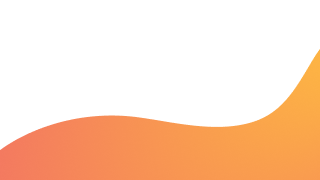
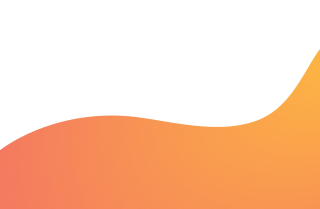
fixed styles and add testing modal

Changed region(s): [[0.0, 0.25, 1.0, 0.8333]]

diff --git a/src/components/MainForm/FormRegistration/FormRegistration.styled.js b/src/components/MainForm/FormRegistration/FormRegistration.styled.js
@@ -1,5 +1,6 @@
 import styled from 'styled-components';
 import backgroundImageMobile from './background-mobile.png';
+import backgroundImageMobileStep from './background-mobile-2.png';
 import backgroundImageTablet from './background-tablet.png';
 import backgroundImageDesktop from './background-desktop.png';
 import { Field, Form, ErrorMessage } from 'formik';
@@ -8,19 +9,31 @@ import { Link } from 'react-router-dom';
 export const StyleSectionFormRegistration = styled.section`
   @media screen and (min-width: 320px) {
     width: 100vw;
-    min-height: 100vh;
-    padding-top: 16px;
+
+    padding-top: 42px;
+
+    padding-bottom: ${(props) => (props.state === 1 ? `87px` : `47px`)};
     background-color: var(--fonColor);
-    background-image: url(${backgroundImageMobile});
+    background-image: ${(props) =>
+      props.state === 1
+        ? `url(${backgroundImageMobile})`
+        : `url(${backgroundImageMobileStep})`};
+
     background-repeat: no-repeat;
     background-position: bottom;
   }
 
   @media screen and (min-width: 768px) {
+    padding-bottom: ${(props) => (props.state === 1 ? '201px' : '159px')};
+
+    padding-top: ${(props) => (props.state === 1 ? ' 168px' : `150px`)};
+
     background-image: url(${backgroundImageTablet});
   }
 
   @media screen and (min-width: 1280px) {
+    padding-top: 44px;
+    padding-bottom: ${(props) => (props.state === 1 ? '69px' : '49px')};
     background-image: url(${backgroundImageDesktop});
   }
 `;
@@ -46,6 +59,7 @@ export const StyleFormRegistration = styled(Form)`
 
   @media screen and (min-width: 1280px) {
     max-width: 618px;
+    padding-bottom: ${(props) => (props.state === 1 ? '60px' : '16px')};
   }
 `;
 
@@ -81,6 +95,10 @@ export const StyleRegistrFormGroup = styled.div`
     &:nth-child(4) {
       margin-bottom: 0;
     }
+  }
+
+  @media screen and (min-width: 768px) {
+    margin-bottom: 40px;
   }
 `;
 
@@ -134,13 +152,16 @@ export const StyleErrorMessage = styled(ErrorMessage)``;
 
 export const Error = styled.div`
   position: absolute;
-  bottom: -20px;
+  bottom: -40px;
   left: 20px;
   color: red;
   font-size: 15px;
-  margin-top: 10px;
   text-transform: uppercase;
   text-align: center;
+
+  @media screen and (min-width: 768px) {
+    bottom: -20px;
+  }
 `;
 
 export const ToggleShowPasword = styled.span`

diff --git a/src/components/Modal/Backdrop/Backdrop.styled.js b/src/components/Modal/Backdrop/Backdrop.styled.js
@@ -1,0 +1,56 @@
+import styled from 'styled-components';
+
+export const BackdropContainer = styled.div`
+  position: fixed;
+  top: 0;
+  left: 0;
+  width: 100%;
+  height: 100%;
+  background-color: rgba(0, 0, 0, 0.2);
+
+  opacity: 1;
+  transition: opacity 250ms cubic-bezier(0.4, 0, 0.2, 1),
+    visibility 250ms cubic-bezier(0.4, 0, 0.2, 1);
+
+  @media screen and (max-width: 768px) {
+    overflow-y: scroll;
+  }
+
+  &.is-hidden {
+    visibility: hidden;
+    opacity: 0;
+    pointer-events: none;
+  }
+`;
+
+export const ModalContainer = styled.div`
+   {
+    position: relative;
+    width: 95%;
+    margin: 0 auto;
+    margin-top: 40px;
+    box-shadow: 0px 1px 3px rgba(0, 0, 0, 0.12), 0px 1px 1px rgba(0, 0, 0, 0.14),
+      0px 2px 1px rgba(0, 0, 0, 0.2);
+    border-radius: 4px;
+    background-color: white;
+    opacity: 1;
+    transition: opacity 550ms cubic-bezier(0.4, 0, 0.2, 1);
+
+    @media screen and (min-width: 480px) and (max-width: 1199px) {
+      width: 450px;
+    }
+    @media screen and (min-width: 700px) {
+      position: absolute;
+      top: 50%;
+      left: 50%;
+      transform: translate(-50%, -50%);
+    }
+    @media screen and (min-width: 1200px) {
+      width: 528px;
+    }
+  }
+
+  ${BackdropContainer}.is-hidden & {
+    opacity: 0;
+  }
+`;

diff --git a/src/pages/ProfilePage/ProfilePage.jsx b/src/pages/ProfilePage/ProfilePage.jsx
@@ -1,13 +1,23 @@
 import ProfileInformation from '../../components/ProfileInformation/ProfileInformation';
 import ProfilePetList from '../../components/ProfilePetList/ProfilePetList';
 import Container from '../../components/Container/Container';
+import Backdrop from '../../components/Modal/Backdrop/Backdrop';
 import {
   ProfileInformationBox,
   ProfileInformationContainer,
   ProfilePetListContainer,
 } from './ProfilePage.styled';
+import { useState } from 'react';
 
 const ProfilePage = () => {
+  const [visible, setVisible] = useState(false);
+  const handleClick = () => {
+    setVisible((prev) => !prev);
+  };
+
+  const handleClose = () => {
+    setVisible((prev) => !prev);
+  };
   return (
     <Container>
       <ProfileInformationBox>
@@ -15,9 +25,10 @@ const ProfilePage = () => {
           <ProfileInformation />
         </ProfileInformationContainer>
         <ProfilePetListContainer>
-          <ProfilePetList />
+          <ProfilePetList handleClick={handleClick} />
         </ProfilePetListContainer>
       </ProfileInformationBox>
+      <Backdrop handleClose={handleClose} visible={visible} />
     </Container>
   );
 };

diff --git a/src/components/Modal/Modal/Modal.styled.js b/src/components/Modal/Modal/Modal.styled.js
@@ -1,0 +1,46 @@
+import styled from 'styled-components';
+
+export const ModalContainer = styled.div`
+   {
+    position: relative;
+    width: 95%;
+    margin: 0 auto;
+    margin-top: 40px;
+    box-shadow: 0px 1px 3px rgba(0, 0, 0, 0.12), 0px 1px 1px rgba(0, 0, 0, 0.14),
+      0px 2px 1px rgba(0, 0, 0, 0.2);
+    border-radius: 4px;
+    background-color: white;
+    opacity: 1;
+    transition: opacity 250ms cubic-bezier(0.4, 0, 0.2, 1);
+
+    @media screen and (min-width: 480px) and (max-width: 1199px) {
+      width: 450px;
+    }
+    @media screen and (min-width: 700px) {
+      position: absolute;
+      top: 50%;
+      left: 50%;
+      transform: translate(-50%, -50%);
+    }
+    @media screen and (min-width: 1200px) {
+      width: 528px;
+    }
+  }
+`;
+
+export const BtnClose = styled.button`
+  position: absolute;
+  right: 0;
+
+  display: flex;
+  justify-content: center;
+  align-items: center;
+
+  width: 34px;
+  height: 34px;
+  border-radius: 50%;
+  border: none;
+  background-color: var(--fonColor);
+
+  cursor: pointer;
+`;

diff --git a/src/components/MainForm/FormLogin/FormLogin.styled.js b/src/components/MainForm/FormLogin/FormLogin.styled.js
@@ -9,8 +9,9 @@ import { AiOutlineCheckCircle, AiOutlineCloseCircle } from 'react-icons/ai';
 export const StyleSectionFormLogin = styled.section`
   @media screen and (min-width: 320px) {
     width: 100vw;
-    min-height: 100vh;
-    padding-top: 16px;
+    padding-top: 44px;
+    padding-bottom: 151px;
+
     background-color: var(--fonColor);
     background-image: url(${backgroundImageMobile});
     background-repeat: no-repeat;
@@ -18,10 +19,14 @@ export const StyleSectionFormLogin = styled.section`
   }
 
   @media screen and (min-width: 768px) {
+    padding-top: 200px;
+    padding-bottom: 260px;
     background-image: url(${backgroundImageTablet});
   }
 
   @media screen and (min-width: 1280px) {
+    padding-top: 80px;
+    padding-bottom: 124px;
     background-image: url(${backgroundImageDesktop});
   }
 `;

diff --git a/src/components/MainForm/FormRegistration/FormRegistaration.jsx b/src/components/MainForm/FormRegistration/FormRegistaration.jsx
@@ -92,7 +92,7 @@ const RegistrationForm = () => {
   };
 
   return (
-    <StyleSectionFormRegistration>
+    <StyleSectionFormRegistration state={step}>
       <Container>
         <Formik
           initialValues={initialValues}
@@ -100,7 +100,7 @@ const RegistrationForm = () => {
           onSubmit={handleSubmit}
         >
           {({ values }) => (
-            <StyleFormRegistration>
+            <StyleFormRegistration state={step}>
               <StyleRegistrTitle>Registration</StyleRegistrTitle>
               {step === 1 && (
                 <>

diff --git a/src/components/Modal/ContentModal/ProfileModal/ProfileModal.jsx b/src/components/Modal/ContentModal/ProfileModal/ProfileModal.jsx
@@ -1,0 +1,24 @@
+const ProfileModal = () => {
+  return (
+    <div>
+      <p>Add pet</p>
+
+      <form>
+        <label>
+          <p>Name pet</p>
+          <input type="text" placeholder="Type name pet" />
+        </label>
+        <label>
+          <p>Date of birth</p>
+          <input type="text" placeholder="Type date of birth" />
+        </label>
+        <label>
+          <p>Breed</p>
+          <input type="text" placeholder="Type breed" />
+        </label>
+      </form>
+    </div>
+  );
+};
+
+export default ProfileModal;

diff --git a/src/components/ProfilePetList/ProfilePetList.jsx b/src/components/ProfilePetList/ProfilePetList.jsx
@@ -19,7 +19,7 @@ import {
   Span,
 } from './ProfilePetList.styled';
 
-const ProfilePetList = () => {
+const ProfilePetList = ({ handleClick }) => {
   return (
     <>
       <ProfilePetListWrapper>
@@ -27,7 +27,7 @@ const ProfilePetList = () => {
           <AddPanelTitle>My pets:</AddPanelTitle>
           <AddedTextBtnWrap>
             <AddText>Add pet</AddText>
-            <AddBtn>
+            <AddBtn onClick={() => handleClick()}>
               <StyleBsPlus />
             </AddBtn>
           </AddedTextBtnWrap>

diff --git a/src/components/Modal/Modal/Modal.jsx b/src/components/Modal/Modal/Modal.jsx
@@ -1,0 +1,17 @@
+import { GrClose } from 'react-icons/gr';
+import ProfileModal from '../ContentModal/ProfileModal/ProfileModal';
+import { BtnClose } from './Modal.styled';
+import { ModalContainer } from '../Backdrop/Backdrop.styled';
+
+const Modal = ({ handleClose }) => {
+  return (
+    <ModalContainer>
+      <BtnClose onClick={handleClose}>
+        <GrClose size={16} />
+      </BtnClose>
+      <ProfileModal />
+    </ModalContainer>
+  );
+};
+
+export default Modal;

diff --git a/src/components/Modal/Backdrop/Backdrop.jsx b/src/components/Modal/Backdrop/Backdrop.jsx
@@ -1,0 +1,12 @@
+import Modal from '../Modal/Modal';
+import { BackdropContainer } from './Backdrop.styled';
+
+const Backdrop = ({ visible, handleClose }) => {
+  return (
+    <BackdropContainer className={visible ? '' : 'is-hidden'}>
+      <Modal handleClose={handleClose} />
+    </BackdropContainer>
+  );
+};
+
+export default Backdrop;

diff --git a/src/components/Notices/NoticesCategoriesNav/NoticesCategoriesNav.jsx b/src/components/Notices/NoticesCategoriesNav/NoticesCategoriesNav.jsx
@@ -6,6 +6,7 @@ const NoticesCategoriesNav = () => {
     <>
       <BoxCategories>
         <StyledLink to="sell">sell</StyledLink>
+
         <StyledLink to="lost-found">lost/found</StyledLink>
         <StyledLink to="for-free">in good hands</StyledLink>
 
